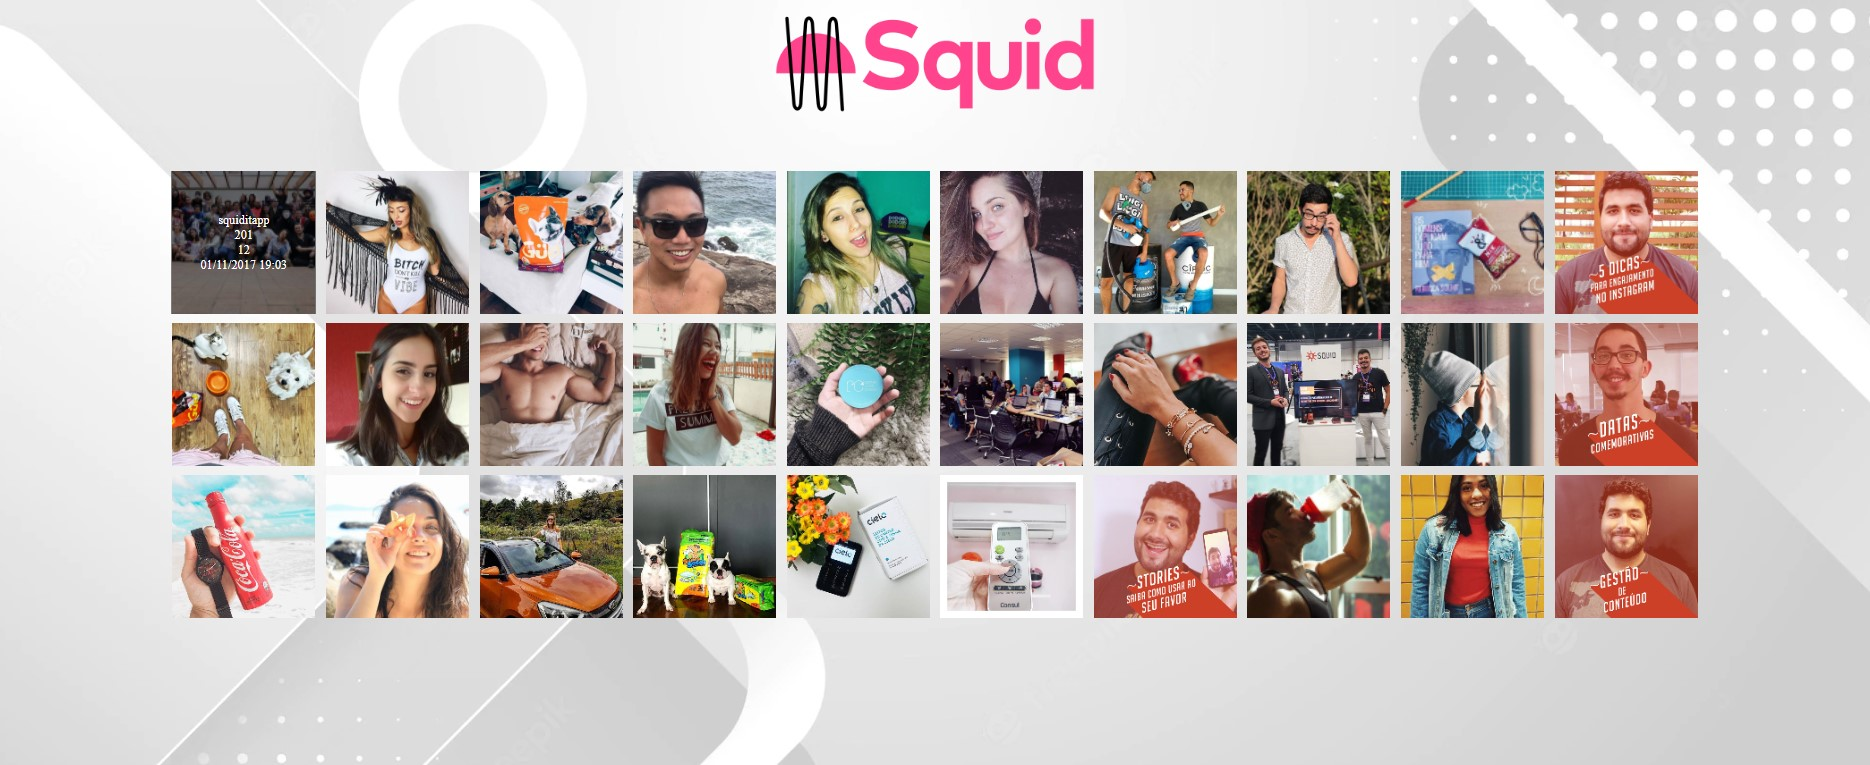
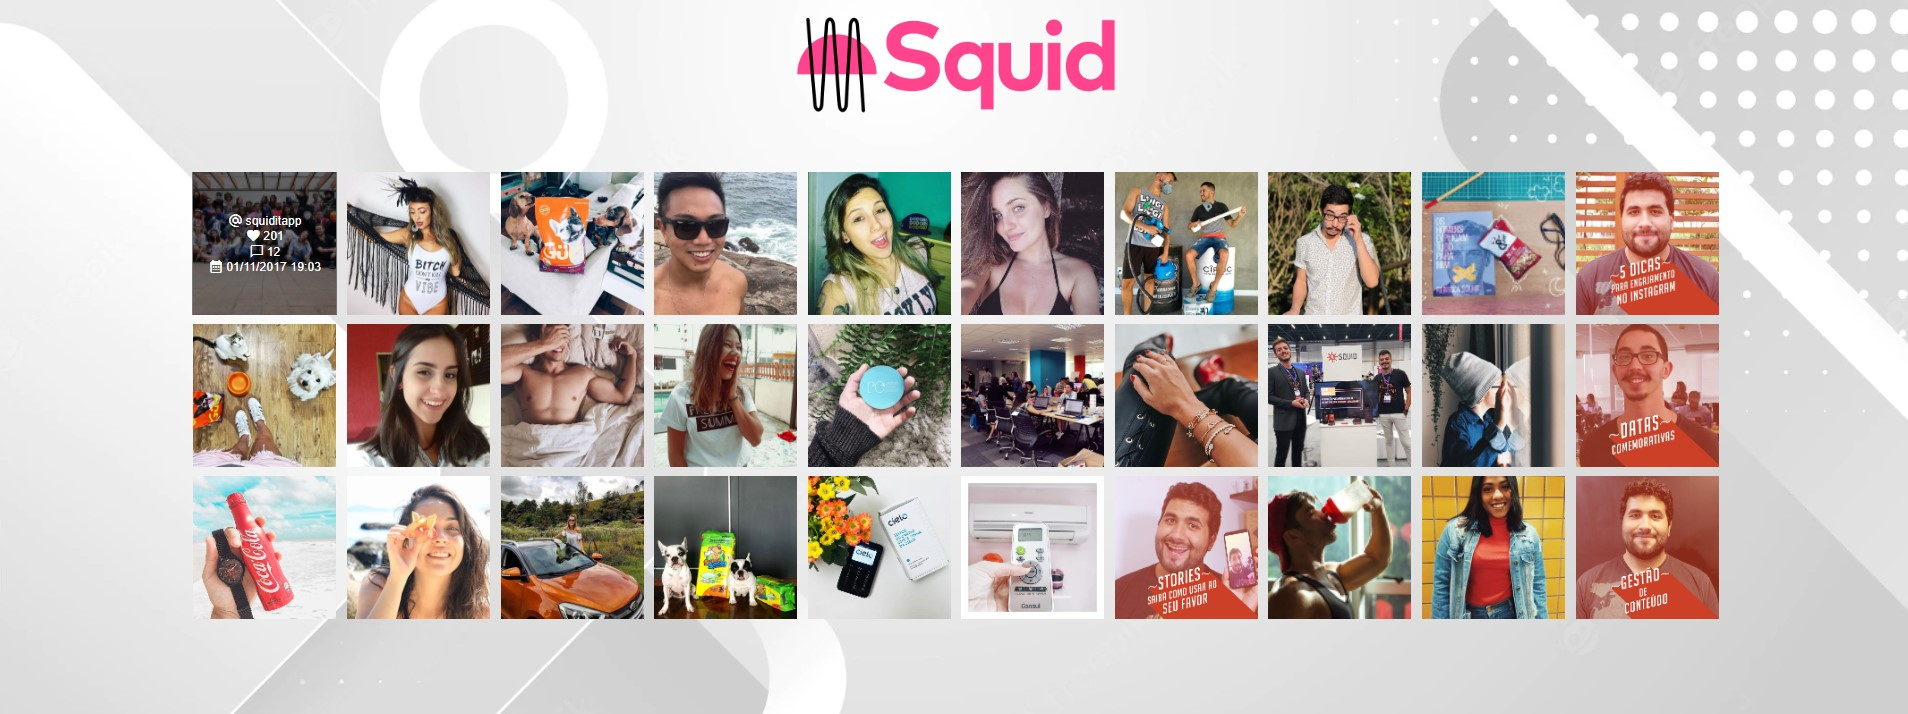
Tratamento de Erro

diff --git a/scripts.js b/scripts.js
@@ -15,7 +15,22 @@ function setLoading(loading = true) {
 }
 
 //Primeira consulta da API
-search(API_URL).then(showData);
+search(API_URL).then(showData).catch(showError);
+
+//Tratamento de Erro
+function showError(){
+  const postWrapper = document.createElement("div");
+    postWrapper.classList.add("post-wrapper1");
+
+  const postItem = document.createElement("span");
+    postItem.classList.add("item");
+    postItem.innerHTML = " <strong>Ops!</strong><p>Estamos com problemas em nossos servidores. Por favor, tente novamente mais tarde.</p>";
+
+    postWrapper.appendChild(postItem);
+    container.appendChild(postWrapper);
+  
+  setLoading(false)
+}
 
 //Buscar API
 function search(val) {
@@ -57,11 +72,37 @@ function showData(medias, pagination ) {
     const { username } = usuario;
     const userInfo = [username, upvotes, comentarios, criadoEmFormatted ];
 
-    userInfo.map(item => {
-    const postItem = document.createElement("p");
-        postItem.classList.add("item");
-        postItem.innerHTML = item;
-        postInfo.appendChild(postItem);
+    userInfo.map((item, i) => {
+      const itemDiv = document.createElement("div")
+      itemDiv.classList.add("item-div")
+
+      const postIcon = document.createElement("i");
+      postIcon.classList.add("material-icons")
+      switch (i){
+        case 0:
+          postIcon.innerHTML = 'alternate_email';
+          break;
+        case 1:
+          postIcon.innerHTML = 'favorite';
+          break;
+        case 2:
+           postIcon.innerHTML = 'chat_bubble_outline';
+           break;
+        case 3:
+          postIcon.innerHTML = 'calendar_month';
+          break;
+        default:
+          break;  
+      }
+
+      itemDiv.appendChild(postIcon);
+      // -------------------------------------------
+      const postItem = document.createElement("span");
+          postItem.classList.add("item");
+          postItem.innerHTML = item;
+          itemDiv.appendChild(postItem);
+
+          postInfo.appendChild(itemDiv);
         
     });
 

diff --git a/styles.css b/styles.css
@@ -3,9 +3,11 @@
     margin: 0;
     outline: 0;
     box-sizing: border-box;
+   
   }
   
   body {
+    font-family:Arial, Helvetica, sans-serif ;
     background: #fff;
     background: url("./pictures/bkSquid.webp");
     background-attachment: fixed;
@@ -42,12 +44,21 @@
     margin: 4px 4px;
     max-width: 150px;
   }
+
+  div.post-wrapper1{
+    width: 500px;
+    height: 100px;
+    font-size: 18px;
+    font-weight: 100;
+    text-align: center;
+  }
+  div.post-wrapper1 strong{
+    font-size: 30px; 
+  }
   
   div.post-wrapper:hover .post-info {
     opacity: 1;
     cursor: pointer;
-    
-
   }
   
   .post-img {
@@ -80,6 +91,17 @@
     font-size: 0.7rem;
     text-align: center;
     padding: 5px;
+  }
+
+  div.item-div{
+    display: flex;
+    align-items: center;
+    justify-content: center;
+  }
+
+  i.material-icons{
+    font-size: 14px;
+    margin-right: 2px;
   }
   
   @keyframes spin {

diff --git a/index.html b/index.html
@@ -9,6 +9,7 @@
     <link rel="apple-touch-icon" sizes="180x180" href="/apple-touch-icon.png">
     <link rel="icon" type="image/png" sizes="32x32" href="/favicon-32x32.png">
     <link rel="icon" type="image/png" sizes="16x16" href="/favicon-16x16.png">
+    <link rel="stylesheet" href="http://fonts.googleapis.com/icon?family=Material+Icons">
     <link rel="stylesheet" href="styles.css" />
   </head>
   <body>

diff --git a/README.md b/README.md
@@ -4,6 +4,11 @@
 
 Criar uma página HTML usando o ponto de partida esse. Depois, usando Javascript pegar os dados do JSON da requisição (GET) - https://us-central1-squid-apis.cloudfunctions.net/test-front-basic. Liste o feed do Instagram da @squidapp. Utilizar o CSS para personalizar o layout como o da imagem do resultado abaixo, considerar o hover para todas as imagens (ver primeira imagem do resultado). Além do hover, cada imagem deve ter um clique para o Link da imagem no instagram, abrindo em uma nova aba ao clicar. A responsividade e experiência do usuário (como loaders, tratamento de erros, animações, efeitos, etc) serão levadas em consideração na avaliação. No final, o código em um servidor público e no seu próprio Gi mandar o link para subir o avaliador. É permitido o uso de qualquer framework javascript no teste!
 
+## Tratamento de Error
+
+A função "showError" retorna uma mensagem  de ERRO caso o retorno da requisição não seja o esperado.
+
+![Resultado](pictures/errorServidor.jpg "Resultado")
 ## Resultado Final
 
 ![Resultado](pictures/resultadoFinal.jpg "Resultado")
